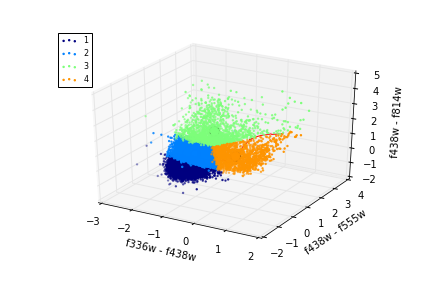
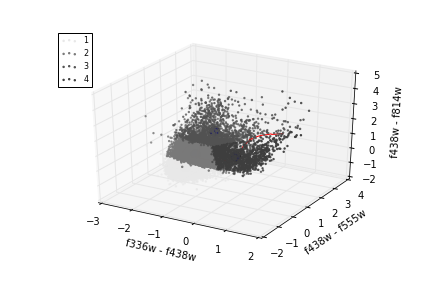
table and test grayscale

diff --git a/Code/clustering_plots.py b/Code/clustering_plots.py
@@ -20,7 +20,7 @@ import mpl_toolkits.mplot3d as p3
 # Set base colour
 base1 = 3
 base2 = 5
-b_wave = 5
+b_wave = 3
 
 # Dictionary for plot formatting
 band_names = {'mag05_225':'f225w', 'mag05_336':'f336w', 'mag05_373':'f373n',
@@ -237,7 +237,7 @@ def make_3d_plots(c1, c2, c3, bands, n_clust, alg, c_data, centers,
         fig = plt.figure()
         ax = fig.add_subplot(111)
         for k in range(0, n_clust):
-            clust_col = plt.cm.jet(float(k) / np.max(c_data['cluster_number'] + 1))
+            clust_col = str(1/(k+1.1))
             my_members = c_data['cluster_number'] == k
             cluster_center_1 = num_clust_data['cen_1'][k]
             cluster_center_2 = num_clust_data['cen_2'][k]
@@ -259,8 +259,7 @@ def make_3d_plots(c1, c2, c3, bands, n_clust, alg, c_data, centers,
         ax.xaxis.set_major_locator(plt.MultipleLocator(1.0))
         ax.set_xlabel(band_names[bands[0]] + ' - ' + band_names[bands[1]])
         ax.set_ylabel(band_names[bands[i*2]]+' - '+band_names[bands[i*2+1]])
-        ax.set_title(alg + ' ' + str(n_clust) + ': '+band_names[bands[0]]+'-'+band_names[bands[1]]+' vs. '+band_names[bands[i*2]]+'-'+band_names[bands[i*2+1]],
-                     fontsize=14)
+
         ax.legend(loc='lower left', fontsize=8)
         plt.show
         file_name = '{}_3d_projection_{}cl_{}-{}vs{}-{}.png'.format(alg, str(n_clust),
@@ -279,7 +278,7 @@ def make_3d_plots(c1, c2, c3, bands, n_clust, alg, c_data, centers,
     fig1 = plt.figure()
     ax1 = fig1.add_subplot(111, projection='3d')
     for x in range(0, n_clust):
-        clust_col = plt.cm.jet(float(x) / np.max(c_data['cluster_number'] + 1))
+        clust_col = str(1/(x+1.1))
         cluster_center_1 = num_clust_data['cen_1'][x]
         cluster_center_2 = num_clust_data['cen_2'][x]
         cluster_center_3 = num_clust_data['cen_3'][x]
@@ -310,7 +309,7 @@ def make_3d_plots(c1, c2, c3, bands, n_clust, alg, c_data, centers,
     fig2 = plt.figure(figsize=(12,12))
     ax2 = fig2.add_subplot(111)
     for b in range(0, n_clust):
-        clust_col = plt.cm.jet(float(b) / np.max(c_data['cluster_number'] + 1))
+        clust_col = str(1/(b+1.1))
         objects = c_data['cluster_number'] == b
         cluster_center_1 = num_clust_data['cen_1'][b]
         cluster_center_2 = num_clust_data['cen_2'][b]
@@ -328,8 +327,7 @@ def make_3d_plots(c1, c2, c3, bands, n_clust, alg, c_data, centers,
     ax2.set_ylabel(band_names[bands[0]] + ' - ' + band_names[bands[1]])
     ax2.set_xlabel(band_names[bands[base1]]+' - ' + band_names[bands[base2]])
     plt.gca().invert_yaxis()
-    ax2.set_title(alg + ' ' + str(n_clust) + ' : '+band_names[bands[0]]+'-'+band_names[bands[1]]+' vs. '+band_names[bands[base1]]+'-'+band_names[bands[base2]],
-                  fontsize=14)
+
     ax2.legend(loc='lower right', fontsize=8)
     file_name = '{}_base_color_{}cl_{}-{}vs{}-{}.png'.format(alg, str(n_clust),
                                                              band_names[bands[0]],
@@ -344,7 +342,7 @@ def make_3d_plots(c1, c2, c3, bands, n_clust, alg, c_data, centers,
     ax4 = fig4.add_subplot(111)
     for a in range(0, n_clust):
         my_members = c_data['cluster_number'] == a
-        clust_col = plt.cm.jet(float(a) / np.max(c_data['cluster_number'] + 1))
+        clust_col = str(1/(a+1.1))
         ax4.scatter(c1[my_members], wave2[my_members],
                     color=clust_col, marker='.', s=4, label=a+1)
     ax4.legend(loc='lower right', fontsize=8)
@@ -365,9 +363,12 @@ def make_3d_plots(c1, c2, c3, bands, n_clust, alg, c_data, centers,
     ax3 = fig3.add_subplot(111)
     for c in range(0, n_clust):
         my_members = c_data['cluster_number'] == c
-        clust_col = plt.cm.jet(float(c) / np.max(c_data['cluster_number'] + 1))
+        clust_col = str(1/(c+1.1))
+        if c == 0:
+            ax3.scatter(base_colour[my_members], base_wave[my_members],
+                    color=clust_col, marker='.', s=4, label=c+1, zorder=2)
         ax3.scatter(base_colour[my_members], base_wave[my_members],
-                    color=clust_col, marker='.', s=4, label=c+1)
+                    color=clust_col, marker='.', s=4, label=c+1, zorder=1)
     ax3.legend(loc='lower right', fontsize=8)
     ax3.set_xlabel(band_names[bands[base1]]+' - '+band_names[bands[base2]])
     ax3.set_ylabel(band_names[bands[base2]])
